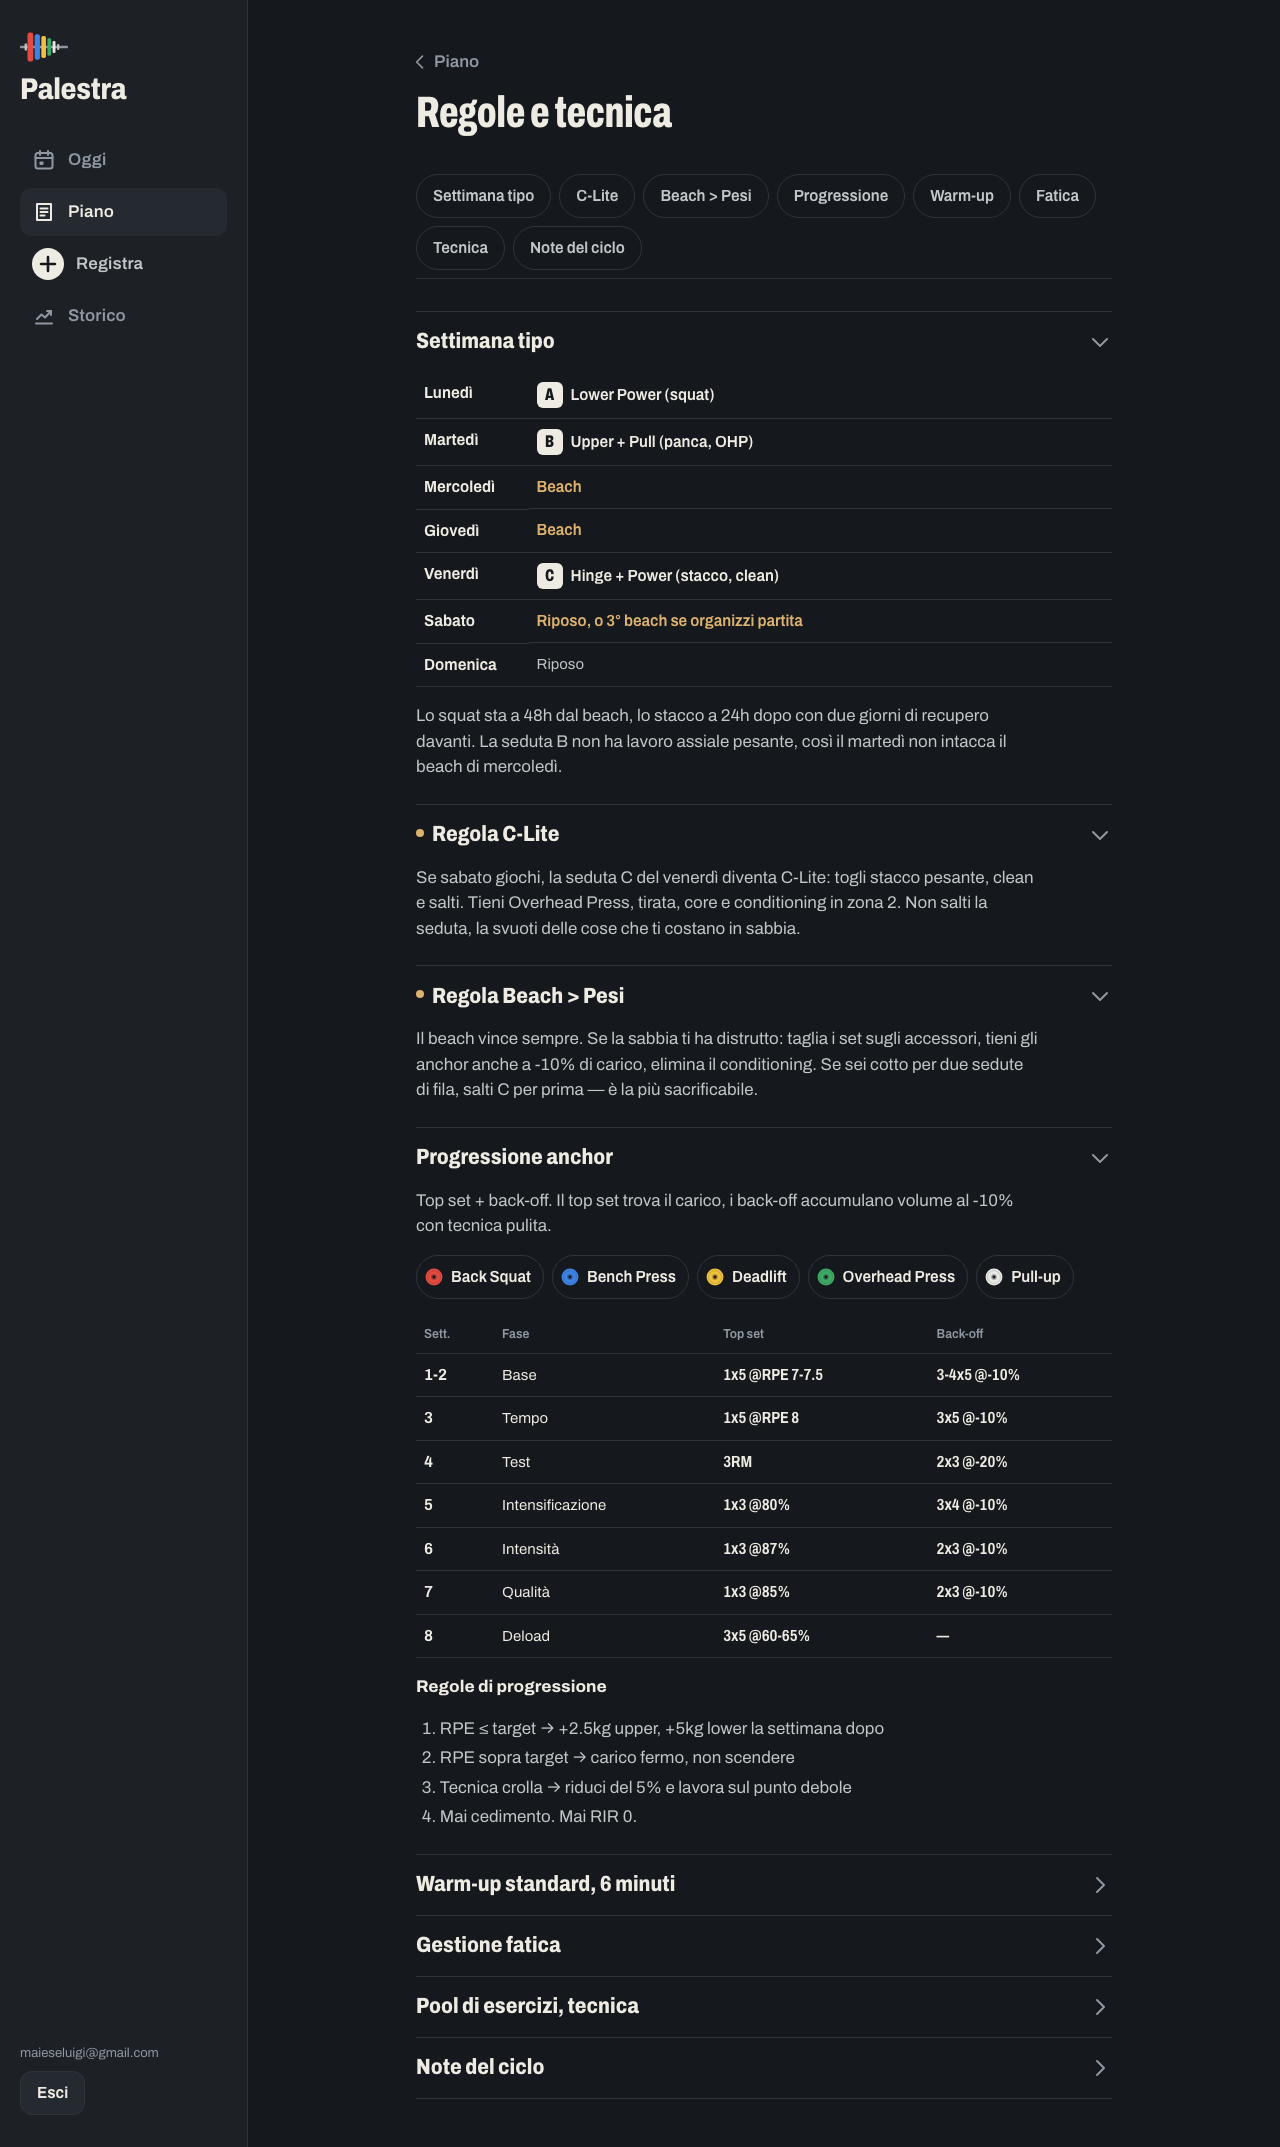
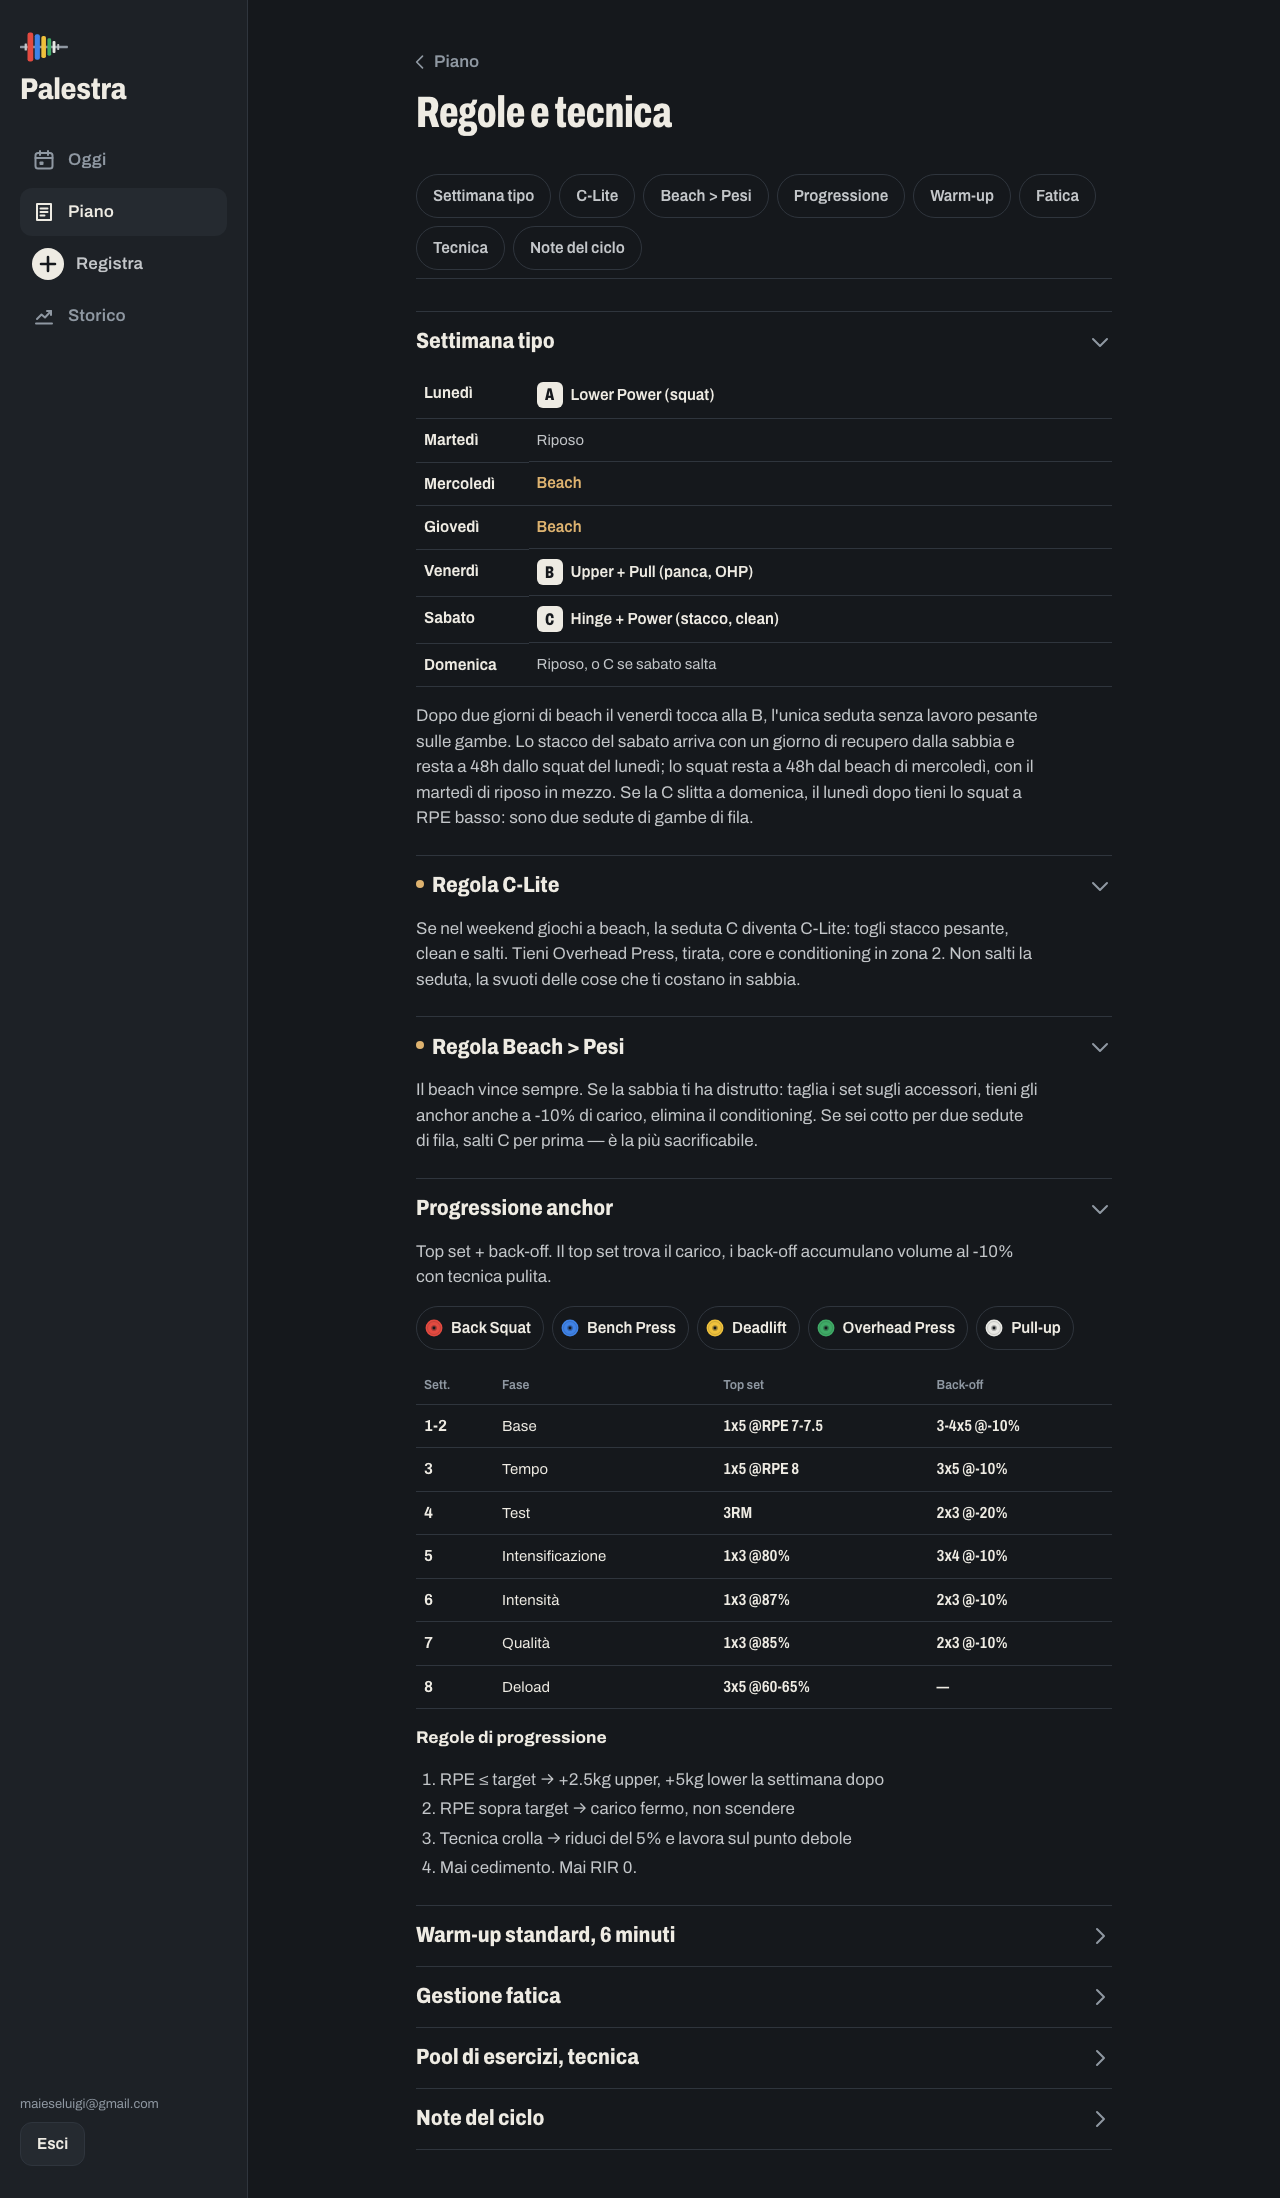
feat: settimana tipo Lun A, Ven B, Sab C (dom cuscinetto), giorni letti dalla tabella del piano; C-Lite per il beach nel weekend

diff --git a/src/ui/screens/Today.test.tsx b/src/ui/screens/Today.test.tsx
@@ -5,7 +5,7 @@ import { failingRepo, renderApp, renderStatic } from '../test-utils';
 
 describe('Oggi', () => {
   it('shows cycle week, today session, A/B/C completion and anchor loads', async () => {
-    renderApp({ today: '2026-09-29' });
+    renderApp({ today: '2026-10-02' });
     expect(screen.getByText('Settimana 1 di 8')).toBeInTheDocument();
     expect(screen.getByRole('heading', { level: 1, name: /Upper \+ Pull/ })).toBeInTheDocument();
     expect(screen.getByRole('heading', { name: /Settimana 1\s*Fondamenta/ })).toBeInTheDocument();
@@ -16,7 +16,7 @@ describe('Oggi', () => {
     expect(await screen.findByText('1 di 3 sedute registrate')).toBeInTheDocument();
     const strip = screen.getByRole('list', { name: /Settimana 1, giorno per giorno/ });
     expect(within(strip).getByText(/28\/09: A, fatta/)).toBeInTheDocument();
-    expect(within(strip).getByText(/29\/09: B, oggi/)).toBeInTheDocument();
+    expect(within(strip).getByText(/02\/10: B, oggi/)).toBeInTheDocument();
     expect(within(strip).getByText(/30\/09: beach/)).toBeInTheDocument();
 
     const squat = screen.getByRole('link', { name: /Back Squat/ });
@@ -27,18 +27,18 @@ describe('Oggi', () => {
     expect(screen.getByRole('link', { name: /Pull-up/ })).toHaveTextContent('mai registrato');
   });
 
-  it('on Friday 02/10 the C of week 1 is still to do, with the C-Lite hint', async () => {
-    renderApp({ today: '2026-10-02' });
+  it('on Saturday 03/10 the C of week 1 is still to do, with the C-Lite hint', async () => {
+    renderApp({ today: '2026-10-03' });
     expect(screen.getByRole('heading', { level: 1, name: /Hinge \+ Power/ })).toBeInTheDocument();
     expect(screen.getByRole('link', { name: 'Registra allenamento' })).toBeInTheDocument();
-    expect(screen.getByText(/Sabato giochi\?/)).toBeInTheDocument();
+    expect(screen.getByText(/Beach nel weekend\?/)).toBeInTheDocument();
     const strip = screen.getByRole('list', { name: /Settimana 1, giorno per giorno/ });
-    expect(within(strip).getByText(/02\/10: C, oggi/)).toBeInTheDocument();
+    expect(within(strip).getByText(/03\/10: C, oggi/)).toBeInTheDocument();
     expect(await screen.findByText('1 di 3 sedute registrate')).toBeInTheDocument();
   });
 
   it('weekend: the session still missing this week can be logged; last Sunday of the cycle does not promise a new A', async () => {
-    const a = renderApp({ today: '2026-10-03' });
+    const a = renderApp({ today: '2026-10-04' });
     expect(screen.getByRole('heading', { level: 1, name: 'Riposo' })).toBeInTheDocument();
     expect(await screen.findByText('Da recuperare')).toBeInTheDocument();
     expect(screen.getByRole('link', { name: 'Registra B' })).toHaveAttribute('href', '#/registra?w=1&d=B');
@@ -54,8 +54,8 @@ describe('Oggi', () => {
       id, date, week: 1, day, exercises: [], conditioning: '', notes: '', schemaVersion: 1 as const,
     });
     renderApp({
-      today: '2026-10-03',
-      sessions: [done('a', '2026-09-28', 'A'), done('b', '2026-09-29', 'B'), done('c', '2026-10-02', 'C')],
+      today: '2026-10-04',
+      sessions: [done('a', '2026-09-28', 'A'), done('b', '2026-10-02', 'B'), done('c', '2026-10-03', 'C')],
     });
     expect(await screen.findByText(/Prossima: lunedì 5 ott/)).toBeInTheDocument();
     expect(screen.queryByText('Da recuperare')).not.toBeInTheDocument();

diff --git a/e2e/screenshots.spec.ts b/e2e/screenshots.spec.ts
@@ -1,15 +1,15 @@
 /// <reference lib="dom" />
 // DoD UI7: screenshots of every route at 375×812 and 1280×800 into docs/screenshots/.
 // Data = the two real SPEC workouts (src/domain/seed.ts) plus two plausible week 1–2 sessions so the
-// history and chart screens show a realistic state. "Today" is pinned to 2026-10-06.
+// history and chart screens show a realistic state. "Today" is pinned to Friday 2026-10-09 (session B).
 import { test, expect, type Page } from '@playwright/test';
 import { resetEmulators, seed, set, signIn, signInOwner, SPEC_SEED } from './helpers';
 import type { WorkoutSession } from '../src/domain/types';
 
 const EXTRA: Omit<WorkoutSession, 'schemaVersion'>[] = [
   {
-    id: '2026-09-29-w1-B',
-    date: '2026-09-29',
+    id: '2026-10-02-w1-B',
+    date: '2026-10-02',
     week: 1,
     day: 'B',
     exercises: [
@@ -37,7 +37,7 @@ const EXTRA: Omit<WorkoutSession, 'schemaVersion'>[] = [
 ];
 const DEMO: WorkoutSession[] = [...SPEC_SEED, ...EXTRA.map((s) => ({ ...s, schemaVersion: 1 as const }))];
 
-const TODAY = '2026-10-06';
+const TODAY = '2026-10-09';
 const SIZES = [
   { w: 375, h: 812, tag: '375' },
   { w: 1280, h: 800, tag: '1280' },
@@ -89,14 +89,14 @@ for (const size of SIZES) {
     }
   });
 
-  test(`Oggi on Friday 02/10 at ${size.tag}: C still to do`, async ({ page }) => {
+  test(`Oggi on Saturday 03/10 at ${size.tag}: C still to do`, async ({ page }) => {
     await page.setViewportSize({ width: size.w, height: size.h });
-    await signInOwner(page, '2026-10-02');
+    await signInOwner(page, '2026-10-03');
     await expect(page.getByRole('heading', { level: 1, name: /Hinge \+ Power/ })).toBeVisible();
     await expect(page.getByRole('link', { name: 'Registra allenamento' })).toBeVisible();
     await expect(page.getByText('2 di 3 sedute registrate')).toBeVisible();
     await expect(page.locator('.state-loading')).toHaveCount(0);
-    await shot(page, 'oggi-venerdi-02-10', size.tag);
+    await shot(page, 'oggi-sabato-03-10', size.tag);
   });
 
   test(`light theme at ${size.tag}`, async ({ page }) => {

diff --git a/src/domain/stats.test.ts b/src/domain/stats.test.ts
@@ -129,19 +129,20 @@ describe('pendingDay / suggestedRef (weekend and off-day logging)', () => {
     expect(pendingDay([...w1, s('b1', '2026-09-29', {}, 1, 'B'), s('c1', '2026-10-02', {}, 1, 'C')], 1)).toBeNull();
     expect(pendingDay(w1, 9)).toBeNull();
   });
-  it('scheduled days keep their session', () => {
-    expect(suggestedRef(w1, '2026-10-02')).toEqual({ week: 1, day: 'C' });
+  it('scheduled days keep their session (Mon A, Fri B, Sat C)', () => {
     expect(suggestedRef(w1, '2026-09-28')).toEqual({ week: 1, day: 'A' });
+    expect(suggestedRef(w1, '2026-10-02')).toEqual({ week: 1, day: 'B' });
+    expect(suggestedRef(w1, '2026-10-03')).toEqual({ week: 1, day: 'C' });
   });
-  it('Saturday and Sunday suggest the first missing session of the week', () => {
-    const withB = [...w1, s('b1', '2026-09-29', {}, 1, 'B')];
-    expect(suggestedRef(withB, '2026-10-03')).toEqual({ week: 1, day: 'C' });
+  it('Sunday and other off days suggest the first missing session of the week', () => {
+    const withB = [...w1, s('b1', '2026-10-02', {}, 1, 'B')];
     expect(suggestedRef(withB, '2026-10-04')).toEqual({ week: 1, day: 'C' });
-    expect(suggestedRef(w1, '2026-10-03')).toEqual({ week: 1, day: 'B' });
+    expect(suggestedRef(w1, '2026-10-04')).toEqual({ week: 1, day: 'B' });
+    expect(suggestedRef(w1, '2026-09-29')).toEqual({ week: 1, day: 'B' });
   });
   it('off day with the whole week done, or outside the cycle, is off-plan', () => {
-    const all = [...w1, s('b1', '2026-09-29', {}, 1, 'B'), s('c1', '2026-10-02', {}, 1, 'C')];
-    expect(suggestedRef(all, '2026-10-03')).toEqual({ week: null, day: null });
+    const all = [...w1, s('b1', '2026-10-02', {}, 1, 'B'), s('c1', '2026-10-03', {}, 1, 'C')];
+    expect(suggestedRef(all, '2026-10-04')).toEqual({ week: null, day: null });
     expect(suggestedRef(w1, '2026-09-26')).toEqual({ week: null, day: null });
     expect(suggestedRef(w1, '2026-11-28')).toEqual({ week: null, day: null });
   });

diff --git a/src/ui/lib/schedule.ts b/src/ui/lib/schedule.ts
@@ -1,6 +1,6 @@
 // Weekly schedule derived from the plan. Session days come from the domain
-// (defaultDayForDate: Mon A, Tue B, Fri C); the rest is beach (Wed/Thu) or rest.
-import { defaultDayForDate } from '../../domain/plan';
+// (defaultDayForDate, read from the plan's week template: Mon A, Fri B, Sat C); the rest is beach (Wed/Thu) or rest.
+import { defaultDayForDate, plan } from '../../domain/plan';
 import { addDays, weekdayOf } from '../../domain/dates';
 import type { DayId, PlanWeek } from '../../domain/types';
 
@@ -11,7 +11,7 @@ export function kindForDate(iso: string): DayKind {
   if (day) return { kind: 'session', day };
   const wd = weekdayOf(iso);
   if (wd === 3 || wd === 4) return { kind: 'beach' };
-  return { kind: 'rest', maybeBeach: wd === 6 };
+  return { kind: 'rest', maybeBeach: wd === 0 };
 }
 
 export function weekDays(week: PlanWeek): string[] {
@@ -20,4 +20,7 @@ export function weekDays(week: PlanWeek): string[] {
 
 export const DAY_ORDER: DayId[] = ['A', 'B', 'C'];
 
-export const DAY_WEEKDAY: Record<DayId, string> = { A: 'lunedì', B: 'martedì', C: 'venerdì' };
+/** Session → weekday name, from the plan's week template ("Lunedì | A — Lower Power"). */
+export const DAY_WEEKDAY: Record<DayId, string> = Object.fromEntries(
+  DAY_ORDER.map((d) => [d, plan.weekTemplate.find((r) => r.activity.trim().startsWith(`${d} —`))?.day.toLowerCase() ?? '']),
+) as Record<DayId, string>;

diff --git a/src/domain/plan.test.ts b/src/domain/plan.test.ts
@@ -17,12 +17,13 @@ describe('plan', () => {
     expect(weekForDate('2026-11-22')).toBe(8);
     expect(weekForDate('2026-11-23')).toBeNull();
   });
-  it('maps weekdays to default sessions', () => {
-    expect(defaultDayForDate('2026-09-28')).toBe('A');
-    expect(defaultDayForDate('2026-09-29')).toBe('B');
-    expect(defaultDayForDate('2026-09-30')).toBeNull();
-    expect(defaultDayForDate('2026-09-25')).toBe('C');
-    expect(defaultDayForDate('2026-10-04')).toBeNull();
+  it('maps weekdays to default sessions from the plan week template (Mon A, Fri B, Sat C)', () => {
+    expect(defaultDayForDate('2026-09-28')).toBe('A'); // Mon
+    expect(defaultDayForDate('2026-09-29')).toBeNull(); // Tue rest
+    expect(defaultDayForDate('2026-09-30')).toBeNull(); // Wed beach
+    expect(defaultDayForDate('2026-10-02')).toBe('B'); // Fri
+    expect(defaultDayForDate('2026-10-03')).toBe('C'); // Sat
+    expect(defaultDayForDate('2026-10-04')).toBeNull(); // Sun buffer
   });
   it('knows the anchors', () => {
     expect(isAnchor('deadlift')).toBe(true);

diff --git a/src/domain/plan.ts b/src/domain/plan.ts
@@ -19,9 +19,18 @@ export function weekForDate(isoDate: string): number | null {
   return w ? w.number : null;
 }
 
-const DAY_BY_WEEKDAY: Record<number, DayId> = { 1: 'A', 2: 'B', 5: 'C' };
+const WEEKDAYS = ['domenica', 'lunedì', 'martedì', 'mercoledì', 'giovedì', 'venerdì', 'sabato'];
 
-/** Planned session for a weekday: Monday A, Tuesday B, Friday C, otherwise null. */
+/** Weekday (0 = Sunday) → session, read from the plan's "Settimana Tipo" table ("A — Lower Power ..."). */
+const DAY_BY_WEEKDAY: Record<number, DayId> = Object.fromEntries(
+  plan.weekTemplate.flatMap(({ day, activity }) => {
+    const wd = WEEKDAYS.indexOf(day.trim().toLowerCase());
+    const m = /^([ABC])\s+—/.exec(activity.trim());
+    return wd >= 0 && m ? [[wd, m[1] as DayId]] : [];
+  }),
+);
+
+/** Planned session for a weekday per the plan (currently Monday A, Friday B, Saturday C), otherwise null. */
 export function defaultDayForDate(isoDate: string): DayId | null {
   return DAY_BY_WEEKDAY[weekdayOf(isoDate)] ?? null;
 }

diff --git a/scripts/parse-plan.test.ts b/scripts/parse-plan.test.ts
@@ -111,6 +111,8 @@ describe('parsePlan on the real plan (F1)', () => {
   it('has week template, progression table (7 rows) and rules', () => {
     expect(plan.weekTemplate).toHaveLength(7);
     expect(plan.weekTemplate[0]).toEqual({ day: 'Lunedì', activity: 'A — Lower Power (squat)' });
+    expect(plan.weekTemplate[4].activity).toMatch(/^B — /);
+    expect(plan.weekTemplate[5].activity).toMatch(/^C — /);
     expect(plan.progression).toHaveLength(7);
     expect(plan.progression[0]).toEqual({ weeks: '1-2', phase: 'Base', topSet: '1x5 @RPE 7-7.5', backOff: '3-4x5 @-10%' });
     expect(plan.progression[6].backOff).toBe('');
@@ -121,7 +123,7 @@ describe('parsePlan on the real plan (F1)', () => {
       expect(titles).toContain(t);
     }
     const cLite = plan.rules.find((r) => r.title === 'C-Lite');
-    expect(cLite?.text).toMatch(/^Se sabato giochi/);
+    expect(cLite?.text).toMatch(/^Se nel weekend giochi a beach/);
     expect(cLite?.text).not.toContain('**');
   });
 

diff --git a/src/ui/screens/LogForm.test.tsx b/src/ui/screens/LogForm.test.tsx
@@ -87,7 +87,7 @@ describe('Registra', () => {
     expect(screen.getByRole('radio', { name: 'Extra' })).toHaveAttribute('aria-checked', 'true');
     expect(screen.getByText('Nessun esercizio')).toBeInTheDocument();
     await userEvent.clear(date);
-    await userEvent.type(date, '2026-10-09');
+    await userEvent.type(date, '2026-10-10');
     expect(screen.getByRole('radio', { name: 'C' })).toHaveAttribute('aria-checked', 'true');
     expect(exerciseCard(/^Deadlift$/)).toBeInTheDocument();
   });
@@ -174,7 +174,7 @@ describe('Registra', () => {
   });
 
   it('on a weekend day proposes the first session still missing this week', async () => {
-    renderApp({ path: '/registra', today: '2026-10-03' });
+    renderApp({ path: '/registra', today: '2026-10-04' });
     await screen.findByLabelText('Data');
     expect(screen.getByLabelText('Settimana')).toHaveValue('1');
     expect(screen.getByRole('radio', { name: 'B' })).toHaveAttribute('aria-checked', 'true');

diff --git a/src/ui/screens/Plan.tsx b/src/ui/screens/Plan.tsx
@@ -186,7 +186,7 @@ function SessionView({ week, day }: { week: PlanWeek; day: DayId }) {
 
       {day === 'C' && (
         <p className="callout">
-          <strong>C-Lite.</strong> Se sabato giochi: togli stacco pesante, clean e salti. Tieni Overhead Press, tirata, core e
+          <strong>C-Lite.</strong> Se nel weekend giochi a beach: togli stacco pesante, clean e salti. Tieni Overhead Press, tirata, core e
           conditioning in zona 2.{' '}
           <a className="link" href={href('/regole?s=c-lite')}>
             Regola completa

diff --git a/src/domain/stats.ts b/src/domain/stats.ts
@@ -89,7 +89,7 @@ export function pendingDay(sessions: WorkoutSession[], week: number): DayId | nu
 }
 
 /**
- * Plan reference for a workout logged on `date`: the scheduled day (Mon A, Tue B, Fri C),
+ * Plan reference for a workout logged on `date`: the scheduled day (Mon A, Fri B, Sat C per the plan),
  * otherwise the first session still missing that week, so off days (weekend included) log the pending one.
  */
 export function suggestedRef(sessions: WorkoutSession[], date: string): { week: number | null; day: DayId | null } {

diff --git a/src/ui/screens/Today.tsx b/src/ui/screens/Today.tsx
@@ -186,7 +186,7 @@ function TodayHero({
       </ul>
       {kind.day === 'C' && !done && (
         <p className="callout">
-          Sabato giochi?{' '}
+          Beach nel weekend?{' '}
           <a className="link" href={href('/regole?s=c-lite')}>
             Fai C-Lite
           </a>

diff --git a/data/piano_8_settimane_v2.md b/data/piano_8_settimane_v2.md
@@ -11,7 +11,7 @@
 | Periodo | Lun 28 set → Dom 22 nov 2026 |
 | Obiettivo | Forza + potenza per beach volley |
 | Frequenza pesi | 3x/settimana |
-| Frequenza beach | 2x fissa (Mer + Gio) + 3° giorno variabile |
+| Frequenza beach | 2x fissa (Mer + Gio) + 3° nel weekend se capita |
 | Durata seduta | ~60 min |
 | Attrezzatura | Bilanciere, rack, panca, manubri, sbarra, vogatore, pedana, box 60cm |
 | Assente | KB, trap-bar, assault bike, wall ball, anelli |
@@ -27,18 +27,18 @@
 | Giorno | Attività |
 |--------|----------|
 | Lunedì | **A — Lower Power** (squat) |
-| Martedì | **B — Upper + Pull** (panca, OHP) |
+| Martedì | Riposo |
 | Mercoledì | Beach |
 | Giovedì | Beach |
-| Venerdì | **C — Hinge + Power** (stacco, clean) |
-| Sabato | Riposo, o 3° beach se organizzi partita |
-| Domenica | Riposo |
+| Venerdì | **B — Upper + Pull** (panca, OHP) |
+| Sabato | **C — Hinge + Power** (stacco, clean) |
+| Domenica | Riposo, o C se sabato salta |
 
-**Perché questo ordine**: lo squat sta a 48h dal beach, lo stacco a 24h dopo con due giorni di recupero davanti. La seduta B non ha lavoro assiale pesante, così il martedì non intacca il beach di mercoledì.
+**Perché questo ordine**: dopo due giorni di beach il venerdì tocca alla B, l'unica seduta senza lavoro pesante sulle gambe. Lo stacco del sabato arriva con un giorno di recupero dalla sabbia e resta a 48h dallo squat del lunedì; lo squat resta a 48h dal beach di mercoledì, con il martedì di riposo in mezzo. Se la C slitta a domenica, il lunedì dopo tieni lo squat a RPE basso: sono due sedute di gambe di fila.
 
 ### Regola C-Lite
 
-Se sabato giochi, la seduta C del venerdì diventa **C-Lite**: togli stacco pesante, clean e salti. Tieni Overhead Press, tirata, core e conditioning in zona 2. Non salti la seduta, la svuoti delle cose che ti costano in sabbia.
+Se nel weekend giochi a beach, la seduta C diventa **C-Lite**: togli stacco pesante, clean e salti. Tieni Overhead Press, tirata, core e conditioning in zona 2. Non salti la seduta, la svuoti delle cose che ti costano in sabbia.
 
 ### Regola Beach > Pesi
 
